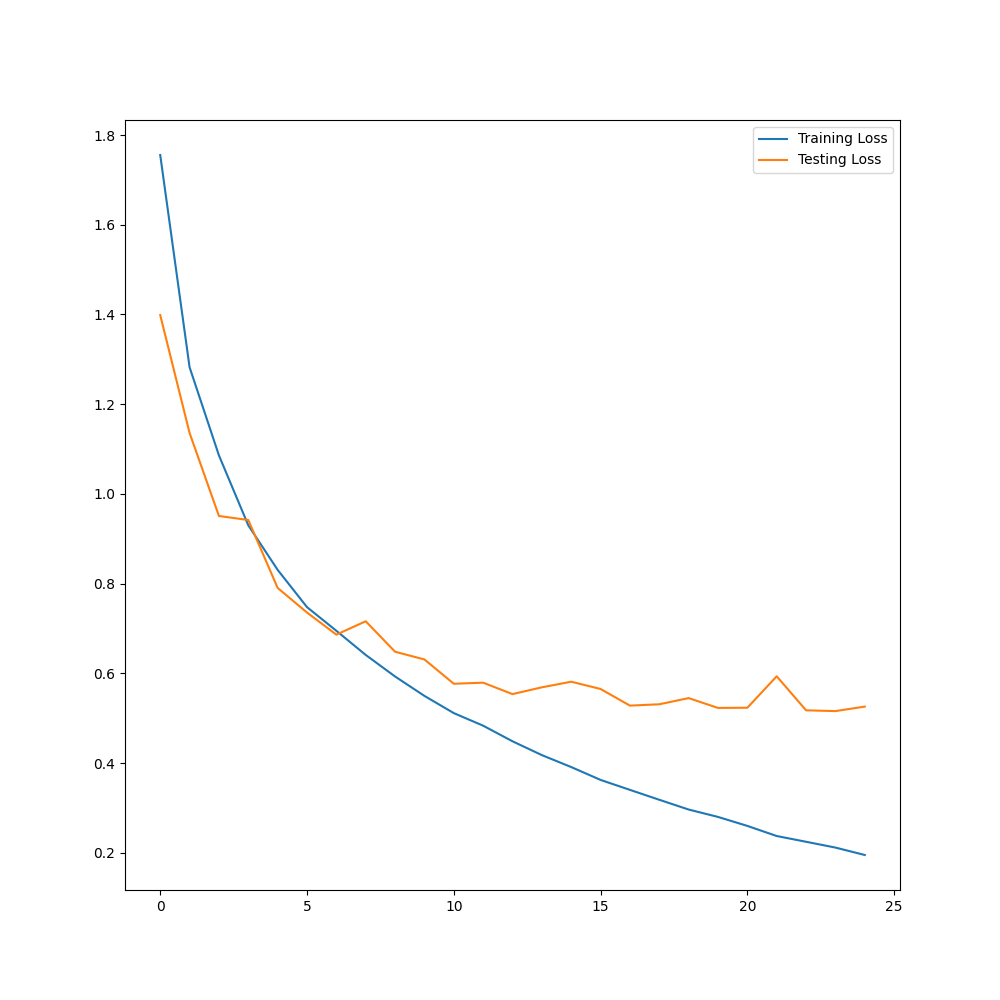
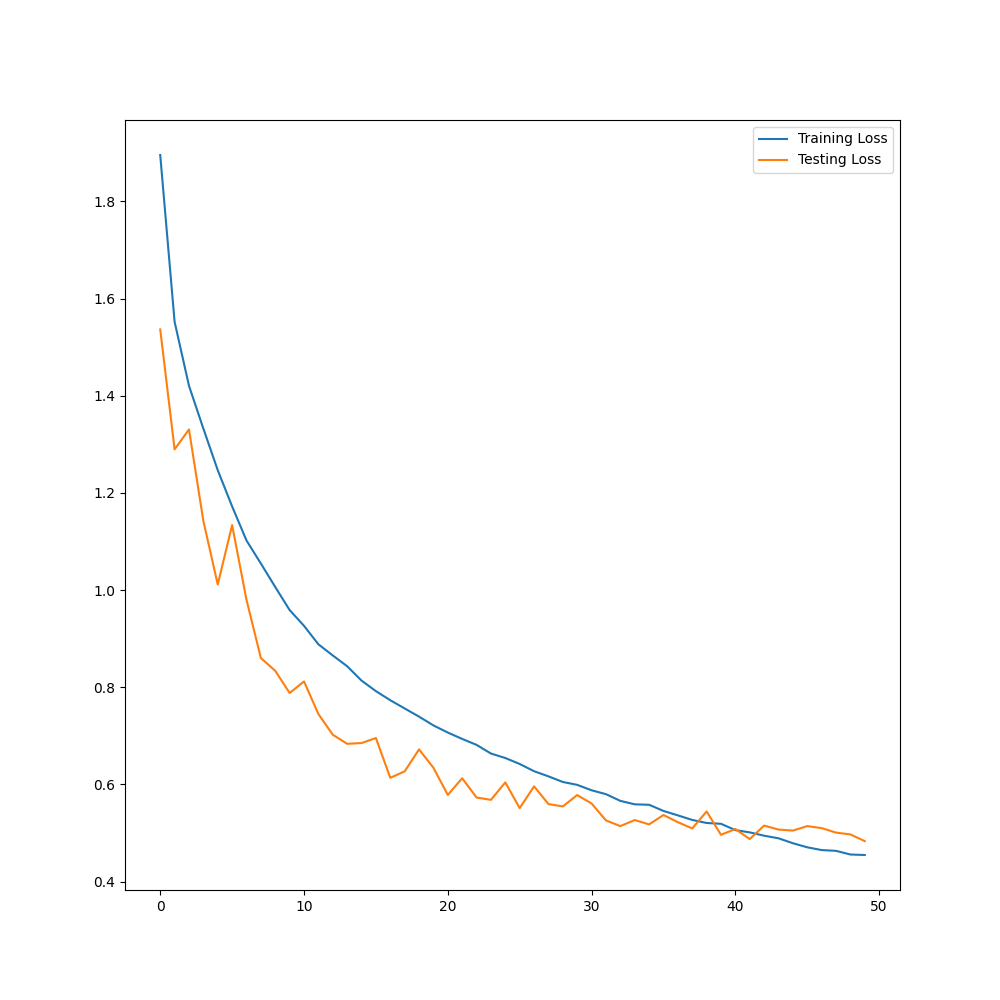
overfitting problem is solved

diff --git a/app/cnn/utils/preprocess_data.py b/app/cnn/utils/preprocess_data.py
@@ -63,10 +63,14 @@ class PreProcess:
         mean_stddev : The mean and standart deviation value of the given training dataset
         """
         transform = transforms.Compose([
-        transforms.RandomHorizontalFlip(), # randomly flip and rotate
-        transforms.RandomRotation(self.random_rotation_value),
-        transforms.ToTensor(),
-        transforms.Normalize(mean_stddev[0] , mean_stddev[1])
+            transforms.RandomHorizontalFlip(),  # Rastgele yatay çevirme
+            transforms.RandomRotation(degrees=10),  # Rastgele döndürme (en fazla 30 derece)
+            transforms.ColorJitter(brightness=0.2, contrast=0.2, saturation=0.2, hue=0.1),  # Renk değişiklikleri
+            # transforms.RandomResizedCrop(size=224, scale=(0.8, 1.0), ratio=(0.75, 1.333)),  # Rastgele boyutlandırılmış kırpma
+            transforms.GaussianBlur(kernel_size=3),  # Gauss bulanıklığı
+            transforms.RandomAffine(degrees=0, translate=(0.1, 0.1), scale=(0.8, 1.2), shear=15),  # Rastgele afine dönüşümler
+            transforms.ToTensor(),  # Tensora dönüştürme
+            transforms.Normalize(mean_stddev[0], mean_stddev[1])  # Normalizasyon
         ])
 
         return transform
